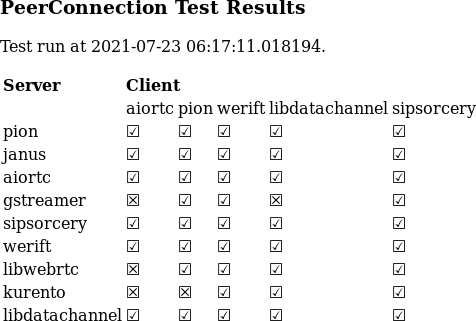
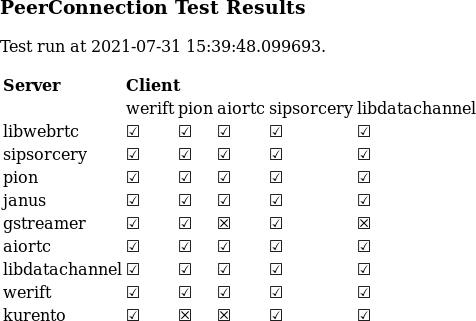
Automated peer connection test results.

diff --git a/PeerConnection_test_results.md b/PeerConnection_test_results.md
@@ -1,15 +1,15 @@
 ## PeerConnection Test Results
-Test run at 2021-07-23 06:17:11.018169
+Test run at 2021-07-31 15:39:48.099675
 
 | Server      | Client      |             |             |             |             |
 |-------------|-------------|-------------|-------------|-------------|-------------|
-|             | aiortc      | pion        | werift      | libdatachannel| sipsorcery  |
+|             | werift      | pion        | aiortc      | sipsorcery  | libdatachannel|
+| libwebrtc   | &#9745;     | &#9745;     | &#9745;     | &#9745;     | &#9745;     |
+| sipsorcery  | &#9745;     | &#9745;     | &#9745;     | &#9745;     | &#9745;     |
 | pion        | &#9745;     | &#9745;     | &#9745;     | &#9745;     | &#9745;     |
 | janus       | &#9745;     | &#9745;     | &#9745;     | &#9745;     | &#9745;     |
+| gstreamer   | &#9745;     | &#9745;     | &#x2612;    | &#9745;     | &#x2612;    |
 | aiortc      | &#9745;     | &#9745;     | &#9745;     | &#9745;     | &#9745;     |
-| gstreamer   | &#x2612;    | &#9745;     | &#9745;     | &#x2612;    | &#9745;     |
-| sipsorcery  | &#9745;     | &#9745;     | &#9745;     | &#9745;     | &#9745;     |
-| werift      | &#9745;     | &#9745;     | &#9745;     | &#9745;     | &#9745;     |
-| libwebrtc   | &#x2612;    | &#9745;     | &#9745;     | &#9745;     | &#9745;     |
-| kurento     | &#x2612;    | &#x2612;    | &#9745;     | &#9745;     | &#9745;     |
 | libdatachannel| &#9745;     | &#9745;     | &#9745;     | &#9745;     | &#9745;     |
+| werift      | &#9745;     | &#9745;     | &#9745;     | &#9745;     | &#9745;     |
+| kurento     | &#9745;     | &#x2612;    | &#x2612;    | &#9745;     | &#9745;     |
